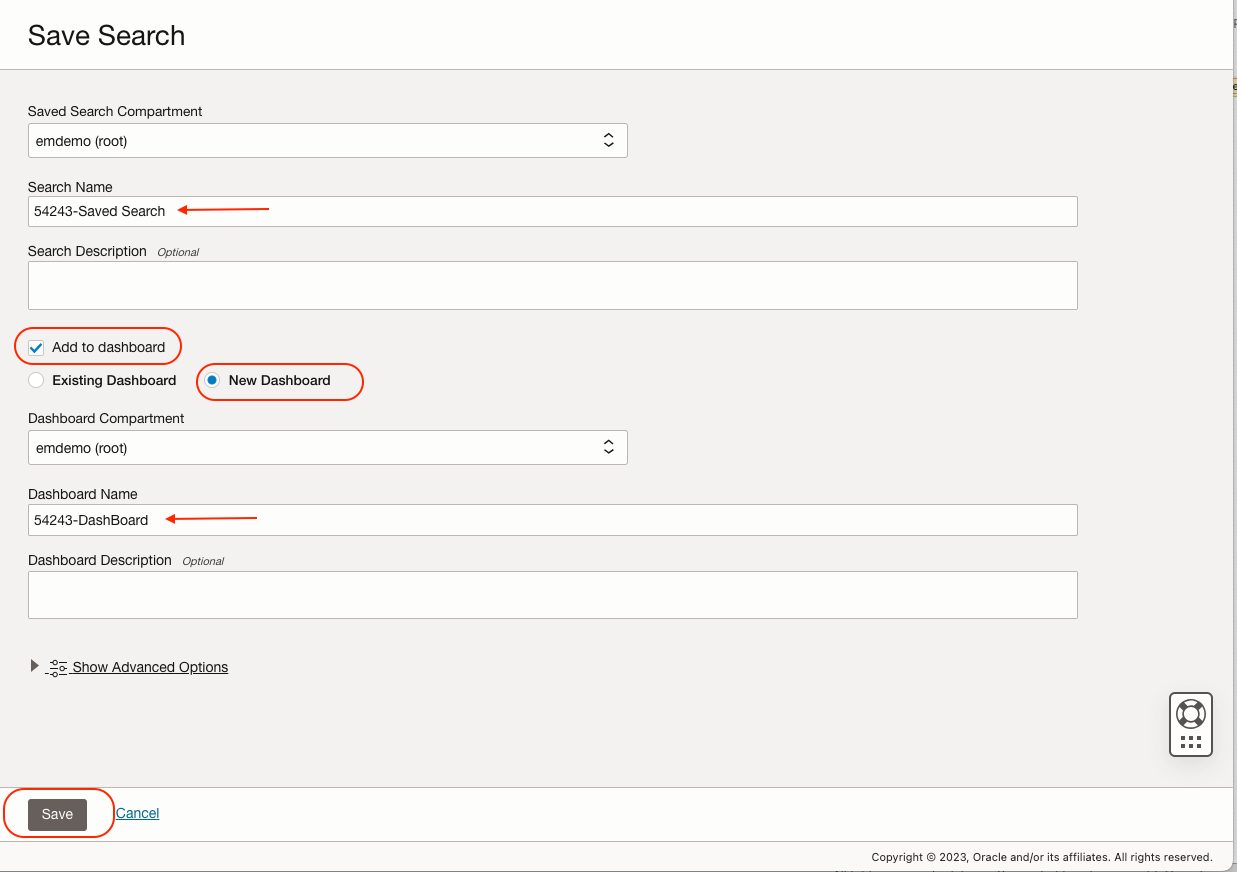
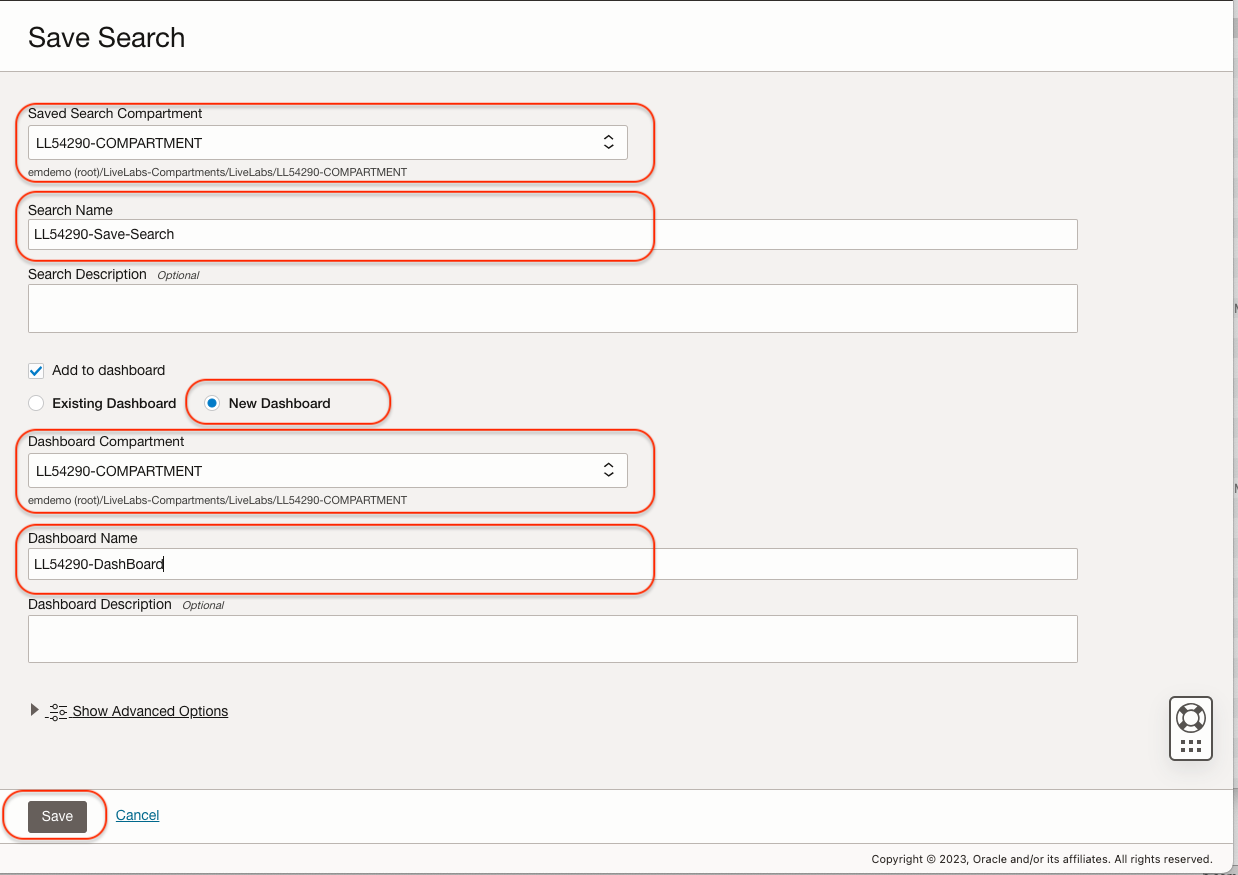
9501 Kubernetes Monitoring and Troubleshooting (#178)
* Lab 1 Add Data Flow

Lab 1 Add Data Flow

* Updating Lab 4

Updating Lab 4

* Lab 4 updates

Lab 4 updates

* Update Lab 4 Task 7

Update Lab 4 Task 7

---------

diff --git a/logging-analytics/oke-monitoring-la/analyzing-logs/analyzing-logs.md b/logging-analytics/oke-monitoring-la/analyzing-logs/analyzing-logs.md
@@ -299,14 +299,45 @@ Estimated Time: 30 minutes
 
 3. A **Save search** pop up will be displayed.
    ![save-search-popup](images/save-search-popup.png)
+    > Note : Getting AuthZ error, needs the fix.
 
 4. In the  **Save search** pop up perform the following actions.
+    - Type the **Compartment** name in the **Saved Search Compartment** for your user the **Compartment** name will be **LLresrvationid**
+        > Note : You can always find the **Compartment** name from the View Login Info page.
+
     - Enter the **Search Name**.
     - Check the **Add to dashboard** checkbox.
-    - Select **New Dashboard** radio button.
+    - Select the **New Dashboard** radio button.
+    - Select the **Dashboard Compartment** name same as step 1.
     - Enter the **Dashboard Name**.
     - Click on **Save** button.
     ![create-dashboard](images/create-dashboard.png)
+    - A saved search will be created and added to the Dashboard.
+    ![save-search-and-dashboard-confirmation](images/save-search-and-dashboard-confirmation.png)  
+
+5. Click on the drop-down of top left side of the Log Explorer Page and select **Dashboards** 
+    ![dashboard-navigation](images/dashboard-navigation.png)
+
+    **OR**
+
+   Copy-paste the following link in your browser's address bar to navigate to the Dashboards.
+      ```
+         <copy>
+           https://cloud.oracle.com/loganalytics/dashboards?region=us-phoenix-1
+         </copy>
+      ```
+
+6. A Dashboards Page will be displayed. Click on the Dashboard Name that you have created in the Step 5.
+    ![dashboards-page](images/dashboards-page.png)
+
+7. A widget showing the saved search data will be displayed.
+    ![dashboard-with-widget](images/dashboard-with-widget.png)
+
+
+
+
+ 
+
 
     
  
